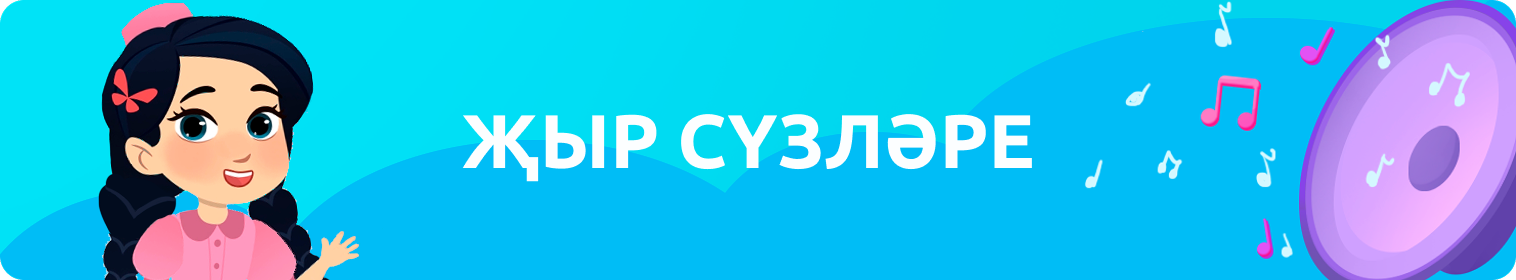
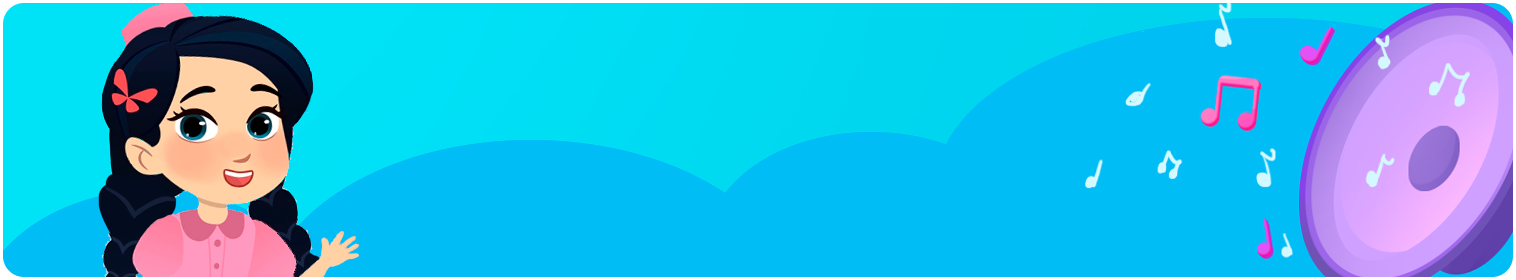
upd

Changed region(s): [[0.0, 0.0, 1.0, 1.0], [0.279, 0.4, 0.6821, 0.6571]]

diff --git a/src/Pages/Songs/Songs.js b/src/Pages/Songs/Songs.js
@@ -16,7 +16,7 @@ const Songs = () => {
 
     const pics = ['./img/songPink.png', './img/songPurple.png', './img/songGreen.png']
 
-    const [imgSrc, setImgSrc] = useState('./img/SongsHeaderImage.png');
+    const [imgSrc, setImgSrc] = useState('./img/songsBig.png');
 
     const updateImage = () => {
 
@@ -130,6 +130,7 @@ const Songs = () => {
         <div className={'pageWrapper'}>
             <div className={'pageHeaderImage'}>
                 <img src={imgSrc} alt=""/>
+                <span>Җырлар</span>
             </div>
             <div className={'pageContent'}>
                 <div className={'songsContent'}>

diff --git a/src/Pages/SongsText/SongsText.js b/src/Pages/SongsText/SongsText.js
@@ -42,6 +42,7 @@ const SongsText = () => {
         <div className={'pageWrapper'}>
             <div className={'pageHeaderImage'}>
                 <img src={imgSrc} alt=""/>
+                <span>Җыр сүзләре</span>
             </div>
             <div className={'pageContent'}>
                 <div className={styles.songsText}>
